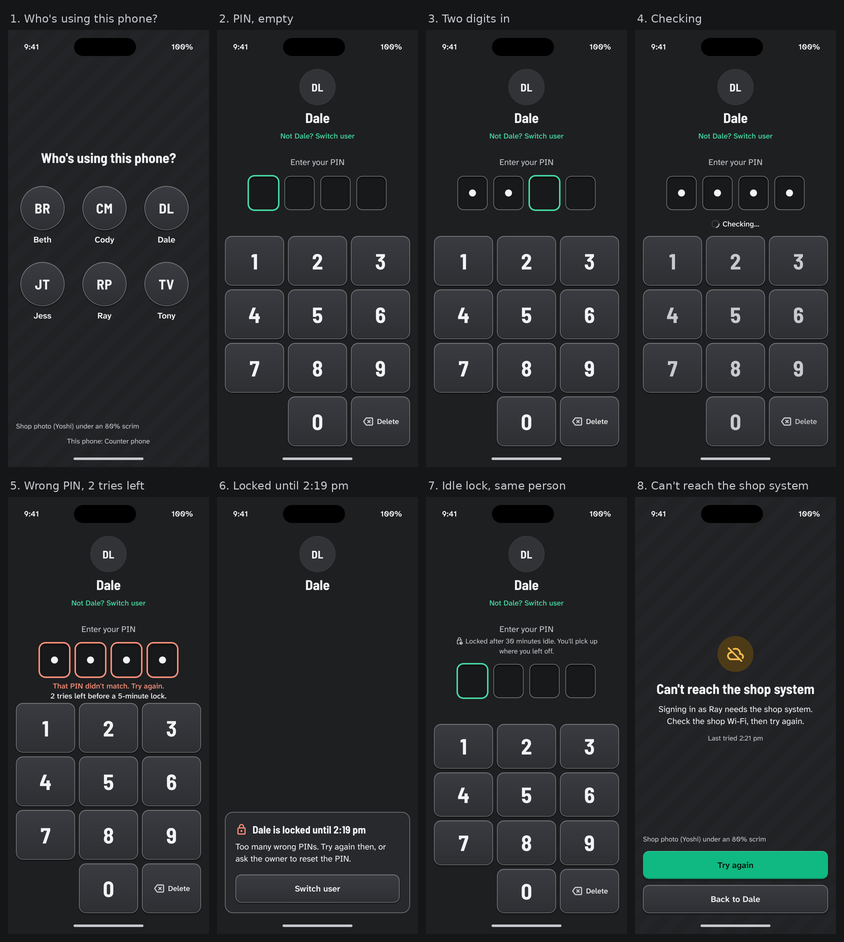
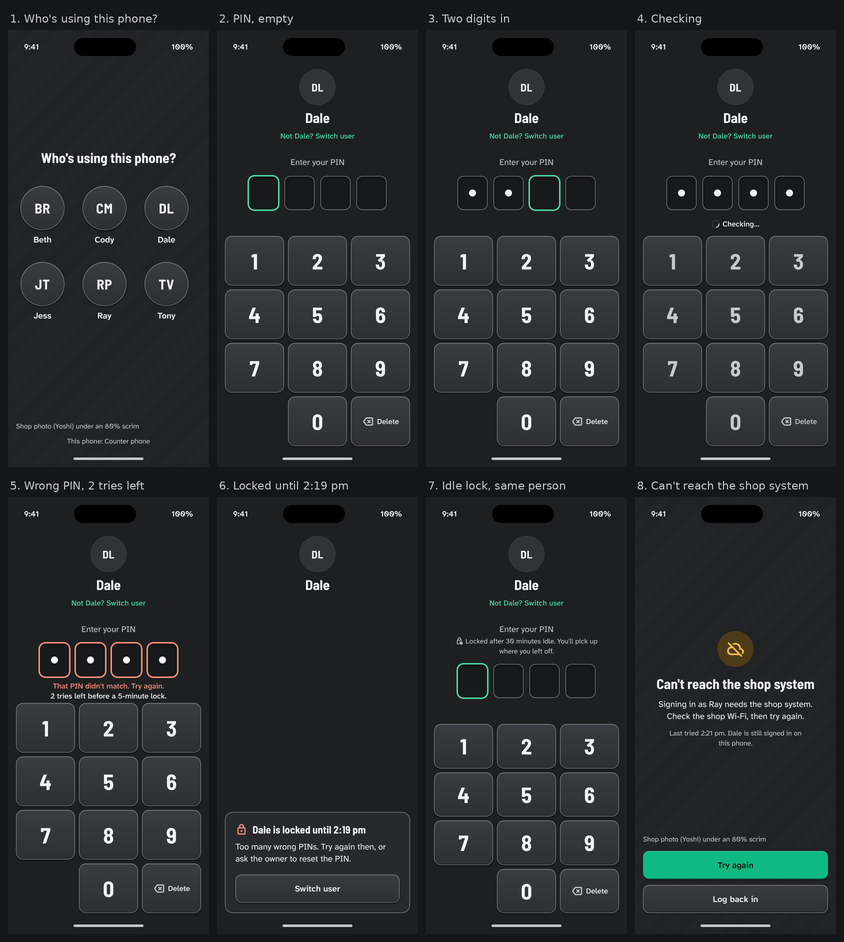
docs(ui-rebuild): owner answers D1-D6; "Back to Dale" becomes "Log back in"
Owner said yes to D1-D6 (decided, not locked); D7 open.
- Gate button renamed "Log back in" (owner's wording); the meta line
  above it says whose session it is.
- landing-nav-ui-prompt.md, unlocked sections only: 4d scan route and
  idle lock, 5 unreachable screen (80% scrim, emerald Try again, bottom
  band), 6 Keypad digit 44/48, 8 good scan shows the result card.

Claude-Session: https://claude.ai/code/session_01SL8S2U9oiwfiFdBtRfJRbL

Changed region(s): [[0.7701, 0.6465, 0.9858, 0.8004]]

diff --git a/docs/ui-rebuild/prototypes/pin.html b/docs/ui-rebuild/prototypes/pin.html
@@ -207,11 +207,11 @@ function unreachHTML() {
         <span class="circle" aria-hidden="true">${ic("cloud_off", "ms-36")}</span>
         <h1 id="unreach-h" tabindex="-1">Can't reach the shop system</h1>
         <p>Signing in as Ray needs the shop system. Check the shop Wi-Fi, then try again.</p>
-        <p class="meta">Last tried 2:21 pm</p>
+        <p class="meta" id="still-in">Last tried 2:21 pm. Dale is still signed in on this phone.</p>
       </div>
       <div class="btns">
         <button class="btn btn-primary" type="button" data-testid="gate.unreachable.retry" data-go="retry Ray's sign-in">Try again</button>
-        <button class="btn raised" type="button" data-testid="gate.unreachable.back" data-act="back-to-dale">Back to Dale</button>
+        <button class="btn raised" type="button" data-testid="gate.unreachable.back" data-act="back-to-dale" aria-describedby="still-in">Log back in</button>
       </div>
     </main>${sysBottom}`;
 }
@@ -289,7 +289,7 @@ document.addEventListener("click", e => {
   if (p) { const who = PEOPLE.find(x => x.id === p.dataset.person); setState("pin"); S.who = who; S.tries = MAX_TRIES; render("#pin-h"); return; }
   const k = e.target.closest(".key"); if (k) { press(k.dataset.key); return; }
   const a = e.target.closest("[data-act=switch]"); if (a) { setState("who"); render("#who-h"); return; }
-  // "Back to Dale" opens Dale's PIN screen, never his session.
+  // "Log back in" opens Dale's PIN screen, never his session.
   const back = e.target.closest("[data-act=back-to-dale]"); if (back) { setState("idle"); render("#pin-h"); return; }
   const g = e.target.closest("[data-go]"); if (g) route.textContent = `In the app this goes to: ${g.dataset.go}`;
 });

diff --git a/docs/ui-rebuild/scan-pin-ui-spec.md b/docs/ui-rebuild/scan-pin-ui-spec.md
@@ -1,6 +1,6 @@
 # InScan: Scan screen and sign-in (PIN) screens
 
-- **Status:** draft for the owner's review, revised after the Phase 4 review gate (`council-review-scan-pin.md`). Nothing here is locked until the owner says "lock it".
+- **Status:** revised after the Phase 4 review gate (`council-review-scan-pin.md`). The owner said yes to D1–D6 on 2026-10-30 (decided, **not locked**); D7 is open. Nothing here is locked until the owner says "lock it".
 - **Date:** 2026-10-30
 - **Mockups:** `prototypes/scan.html`, `prototypes/pin.html` (state picker on the left; the phone frame is the design). Shared tokens: `prototypes/inscan-base.css`.
 - **Builds on:** `landing-nav-ui-prompt.md`. Everything in its section 0 locked card applies here unchanged: palette v4 true charcoal, emerald for actions only, depth B (only pressable things get depth), 4-digit PINs, the type families and the role tokens. This doc adds two screens and proposes changes to that prompt (section 4).
@@ -169,9 +169,9 @@ States:
 ### 3c. Can't reach the shop system (gate `unreachable`)
 
 Qantas message on the shop photo, no bottom nav:
-- Centred in the space above the buttons: 72 dp `warn-tint` circle with the cloud-off icon in `warn-ink`; title "Can't reach the shop system" (`type-screen-title`); body in `text`: "Signing in as Ray needs the shop system. Check the shop Wi-Fi, then try again."; meta "Last tried 2:21 pm".
-- **Buttons in the bottom band**, like every other screen's main action: primary **Try again** (emerald, the screen's one primary) and, only if someone still has a valid session on this phone, raised **Back to Dale**.
-- **"Back to Dale" opens Dale's PIN screen** (checked on the phone, as in 3e). It never opens his session directly, or anyone could get in by failing a sign-in offline.
+- Centred in the space above the buttons: 72 dp `warn-tint` circle with the cloud-off icon in `warn-ink`; title "Can't reach the shop system" (`type-screen-title`); body in `text`: "Signing in as Ray needs the shop system. Check the shop Wi-Fi, then try again."; meta "Last tried 2:21 pm. Dale is still signed in on this phone." (shown only with the second button).
+- **Buttons in the bottom band**, like every other screen's main action: primary **Try again** (emerald, the screen's one primary) and, only if someone still has a valid session on this phone, raised **Log back in** (owner's wording; the meta line above says whose session it is).
+- **"Log back in" opens Dale's PIN screen** (checked on the phone, as in 3e). It never opens his session directly, or anyone could get in by failing a sign-in offline.
 
 ### 3d. Accessibility and input
 
@@ -194,14 +194,14 @@ Recommended in D2. Only for the person whose session is on this phone; switching
 
 ---
 
-## 4. Proposed changes to `landing-nav-ui-prompt.md`
+## 4. Changes made to `landing-nav-ui-prompt.md`
 
-These change unlocked parts of the prompt. Applied only if the owner agrees.
+These changed unlocked parts of the prompt. Applied on 2026-10-30 after the owner said yes to D1–D6.
 
 1. **Section 8, "Good scan":** was "a 200 ms emerald frame flash and a strong haptic, then the app goes straight to the record". Becomes: "the brackets take the outcome's status colour, a confirm haptic, and the result card (Scan spec 2c) slides up over the frozen picture".
 2. **Section 4d, scan route:** was "closes on a good read". Becomes: "a good read shows the result card; tapping the unit opens `stock/{unitId}`; Check in this unit opens check-in with the VIN; Scan another resumes; Cancel returns to where Scan was opened".
 3. **Section 4d, idle lock:** add "the same person can unlock offline (Scan spec 3e); switching to someone else needs the shop system".
-4. **Section 5, unreachable screen:** scrim 80% (was 75%); Try again is the screen's one emerald primary (was raised) and sits in the bottom band with "Back to Dale"; title at `type-screen-title` 28 (the prompt's 24 isn't on the type scale).
+4. **Section 5, unreachable screen:** scrim 80% (was 75%); Try again is the screen's one emerald primary (was raised) and sits in the bottom band with "Log back in"; title at `type-screen-title` 28 (the prompt's 24 isn't on the type scale).
 5. **Section 6, type scale:** add "Keypad digit, Barlow Semi Condensed 44/48 Bold" (D5).
 
 ---
@@ -228,6 +228,8 @@ These change unlocked parts of the prompt. Applied only if the owner agrees.
 
 ## 6. Decisions for the owner
 
+Owner answer, 2026-10-30: **yes to D1–D6** (decided, not locked). D7 is open.
+
 | # | Decision | Recommendation | Why |
 |---|---|---|---|
 | D1 | After a good read, show the result card, or jump straight to the record (today's spec)? | **Result card, always.** | Confirming a pallet of incoming boxes becomes two taps per box instead of four, and every read looks the same. Cost: one extra tap to open an in-stock unit (tap the card). |
@@ -235,7 +237,7 @@ These change unlocked parts of the prompt. Applied only if the owner agrees.
 | D3 | Server lockout changes | **Yes to `attemptsLeft` and `lockedUntil`.** Also recommended: forget failed tries after a quiet period, and lengthen repeat locks (5, then 15, then 60 minutes, then an owner reset) with an alert to the owner. | Today the failed count never expires, so "2 tries left" can appear on someone's first try of the day, and 5 guesses every 5 minutes covers all 10,000 PINs in days. Anyone can also lock a coworker out on purpose. |
 | D4 | Who screen background: the shop photo, or flat charcoal? | **Shop photo**, 80% scrim, same as the unreachable screen. | Your Disney and Qantas + CHOPT picks both use it, and it marks gate screens as different from the working app. |
 | D5 | Add a "Keypad digit" size (44/48) to the type scale? | **Yes.** | 34 px digits were a quarter of the key's height; 44 reads at arm's length with gloves. |
-| D6 | Unreachable screen: Try again and Back to Dale in the bottom band (drawn), or under the text like Qantas? | **Bottom band.** | Same place as every other main button in the app, in thumb reach. The message keeps the Qantas look. |
+| D6 | Unreachable screen: Try again and Log back in in the bottom band (drawn), or under the text like Qantas? | **Bottom band.** | Same place as every other main button in the app, in thumb reach. The message keeps the Qantas look. |
 | D7 | Owner-only "Log from the tag" for a unit whose check-in was lost? | **Not now.** | New scope. The tag's own ID would be reused, so it can't make a duplicate; worth adding if lost check-ins actually happen. |
 
 ---
@@ -277,7 +279,7 @@ These change unlocked parts of the prompt. Applied only if the owner agrees.
   - A maker barcode never offers Check in.
   - Wrong PIN never shows or announces the digits.
   - A burst of more than 4 keys in under 100 ms on the PIN screen is dropped.
-  - "Back to Dale" opens Dale's PIN screen, never his session.
+  - "Log back in" opens Dale's PIN screen, never his session.
   - Offline unlock refuses a different person, refuses after `expiresAt`, and signs out after 5 wrong local tries (counter saved before each check).
   - A queued change keeps the employee who made it through a user switch.
 - **Clock injected** for "Locked until 2:19 pm", "Last tried", the keypad's return and the 8-second hint.

diff --git a/docs/ui-rebuild/landing-nav-ui-prompt.md b/docs/ui-rebuild/landing-nav-ui-prompt.md
@@ -228,6 +228,8 @@ GATE  (shown only when needed; nothing else is reachable until both pass)
   idle lock .......... after 30 min with no touches (default), the phone returns to "who".
                        The next person picks their name; the same person re-enters their PIN
                        and lands back where they were. Nothing unsaved is lost.
+                       The same person can unlock offline (scan-pin-ui-spec.md 3e);
+                       switching to someone else needs the shop system.
   unreachable ........ full-screen "Can't reach the shop system" with a background image
                        and a big "Try again" button. Shown ONLY when connect or sign-in
                        can't continue without the shop system (later also: finishing a sale)
@@ -258,7 +260,9 @@ SHELL  (bottom bar on phones · rail on tablets)
   search ............. search sheet over the shell (opened by Find in the top bar)
 
 OVER THE SHELL  (full-screen, each has its own Close; bottom bar hidden)
-  scan ............... camera on while open; closes on a good read or Cancel
+  scan ............... camera on while open. A good read shows the result card
+                       (scan-pin-ui-spec.md 2c); tapping the unit opens stock/{unitId};
+                       Scan another resumes; Cancel returns to where Scan was opened
      unit tag ..........→ stock/{unitId}
      ticket tag (TBA) ..→ tickets/{woNo}
      unknown code / VIN →  scan/not-found → "Check in this unit" (VIN prefilled)
@@ -297,13 +301,13 @@ OVER THE SHELL  (full-screen, each has its own Close; bottom bar hidden)
   - Button: full width, a raised tactile control, 56 dp tall. Neutral, not emerald, because Scan stays the only emerald fill.
   - **Closing:** system notices (refused changes) have no close button and clear themselves when the condition clears. *Reserved:* later shop notices from the owner get a close button and an optional image header. Don't render those.
 - **Unreachable screen** (gate state, not part of Home):
-  - Full-bleed background image supplied by Yoshi, under a `bg` scrim at 75% opacity. Raise the scrim if the brightest part of the image drops text below 7:1.
+  - Full-bleed background image supplied by Yoshi, under a `bg` scrim at 80% opacity (75% measured `text-2` at 4.36:1 over a white photo). Raise it further if the brightest part of the image drops `text` below 7:1.
   - The image is a photo or texture from the shop's world, such as a trail, a shop floor or tyre tread. **No cartoon mascots or illustrated people.**
   - Centred content:
-    - a 64 dp cloud-off icon
-    - title "Can't reach the shop system", heading face, 24 sp
-    - body "Signing in needs the shop system. Check the shop Wi-Fi, then try again.", 17 sp
-    - a full-width raised "Try again" button, 56 dp tall
+    - a 72 dp `warn-tint` circle with the cloud-off icon in `warn-ink`
+    - title "Can't reach the shop system", `type-screen-title` (28/34)
+    - body "Signing in as Ray needs the shop system. Check the shop Wi-Fi, then try again.", 17 sp, `text`
+    - in the bottom band: a full-width emerald "Try again" (the screen's one primary; no Scan button shows here), 56 dp tall, and, when someone else is still signed in on this phone, a raised "Log back in" that opens their PIN screen. Full detail: scan-pin-ui-spec.md 3c.
   - No bottom nav and no snackbar.
 - **Find button:** icon plus the word "Find", 48 dp tall, same construction as the signed-in chip. It is a tactile control.
 - **Search field** (in the search sheet): at least 56 dp tall, 12 dp radius, an inset well (section 6), a leading search icon, and a clear button once text is entered. Text shows in capitals.
@@ -411,6 +415,7 @@ Swapping the action colour (for example to blue) changes only the `accent-*` row
 | Nav label | Atkinson Hyperlegible Next | 14/16 | Medium (selected: SemiBold) |
 | ID | Atkinson Hyperlegible Mono | 15/20 | Medium |
 | ID plate | Atkinson Hyperlegible Mono | 15/20 | Bold |
+| Keypad digit (PIN keypad) | Barlow Semi Condensed | 44/48 | Bold |
 
 Section headers are deliberately larger than the 17 sp labels under them, so a header is never weaker than the content it introduces.
 
@@ -496,7 +501,7 @@ Motion is functional and quick. Nothing bounces.
   - Flat record cards step their fill up one surface level and do **not** scale.
   - The Scan button scales to 0.96 and gives a light haptic tick.
   - **Haptics are never the only signal** (gloves dull them, and Android's touch-feedback setting can switch them off). The confirm-style haptic needs Android 11 (API 30); below that, fall back to a standard click.
-- **Good scan:** a 200 ms emerald frame flash and a strong haptic, then the app goes straight to the record. There is no confirmation dialog.
+- **Good scan:** the brackets take the outcome's status colour, a confirm haptic, and the result card slides up over the frozen picture (scan-pin-ui-spec.md 2c). It is a result, not a confirmation dialog.
 - **Banners:** slide down 150 ms when they appear and stay until the condition clears. They never auto-dismiss.
 - **Loading:** static skeleton blocks in `surface-raised`, with no shimmer. Under 300 ms, show nothing.
 - **Snackbars:** only for confirmations of an action just taken ("Tag sent to printer app"), never for problems.

diff --git a/DEV-JOURNAL.md b/DEV-JOURNAL.md
@@ -4,6 +4,31 @@ Project decisions and verification evidence, newest entry first. Nothing counts 
 
 ---
 
+## 2026-10-30: owner answers on Scan and sign-in (D1–D6)
+
+The owner said **yes to D1–D6** in `docs/ui-rebuild/scan-pin-ui-spec.md` §6. These are decided, **not locked**:
+
+1. **D1:** a read shows the result card.
+2. **D2:** the same person can unlock offline, checked with a Keystore HMAC.
+3. **D3:** server lockout changes (tries left, lock end time, longer repeat locks).
+4. **D4:** shop photo behind the who screen, under an 80% scrim.
+5. **D5:** 44/48 keypad digit.
+6. **D6:** unreachable-screen buttons in the bottom band.
+
+**D7** ("log a unit from its tag") is still open.
+
+The owner also renamed "Back to Dale" to **"Log back in"**. The meta line above it now says whose session it is: "Dale is still signed in on this phone."
+
+Applied to `landing-nav-ui-prompt.md`, unlocked sections only:
+- §4d: scan route and idle lock
+- §5: unreachable screen
+- §6: Keypad digit row in the type scale
+- §8: good scan
+
+No app or server code changed.
+
+---
+
 ## 2026-10-30: Scan and sign-in screens, Phases 0–4
 
 **Branch:** `ui-scan-pin`. **Nothing here is locked.**

diff --git a/docs/ui-rebuild/council-review-scan-pin.md b/docs/ui-rebuild/council-review-scan-pin.md
@@ -88,7 +88,7 @@ Every finding is **fixed**, **rejected with a reason**, or **for the owner** (D1
 
 ## For the owner
 
-D1 to D7 in `scan-pin-ui-spec.md` section 6.
+D1 to D7 in `scan-pin-ui-spec.md` section 6. **Answered 2026-10-30:** yes to D1–D6 (decided, not locked); D7 open. The owner also renamed "Back to Dale" to "Log back in".
 
 ## Deferred
 
